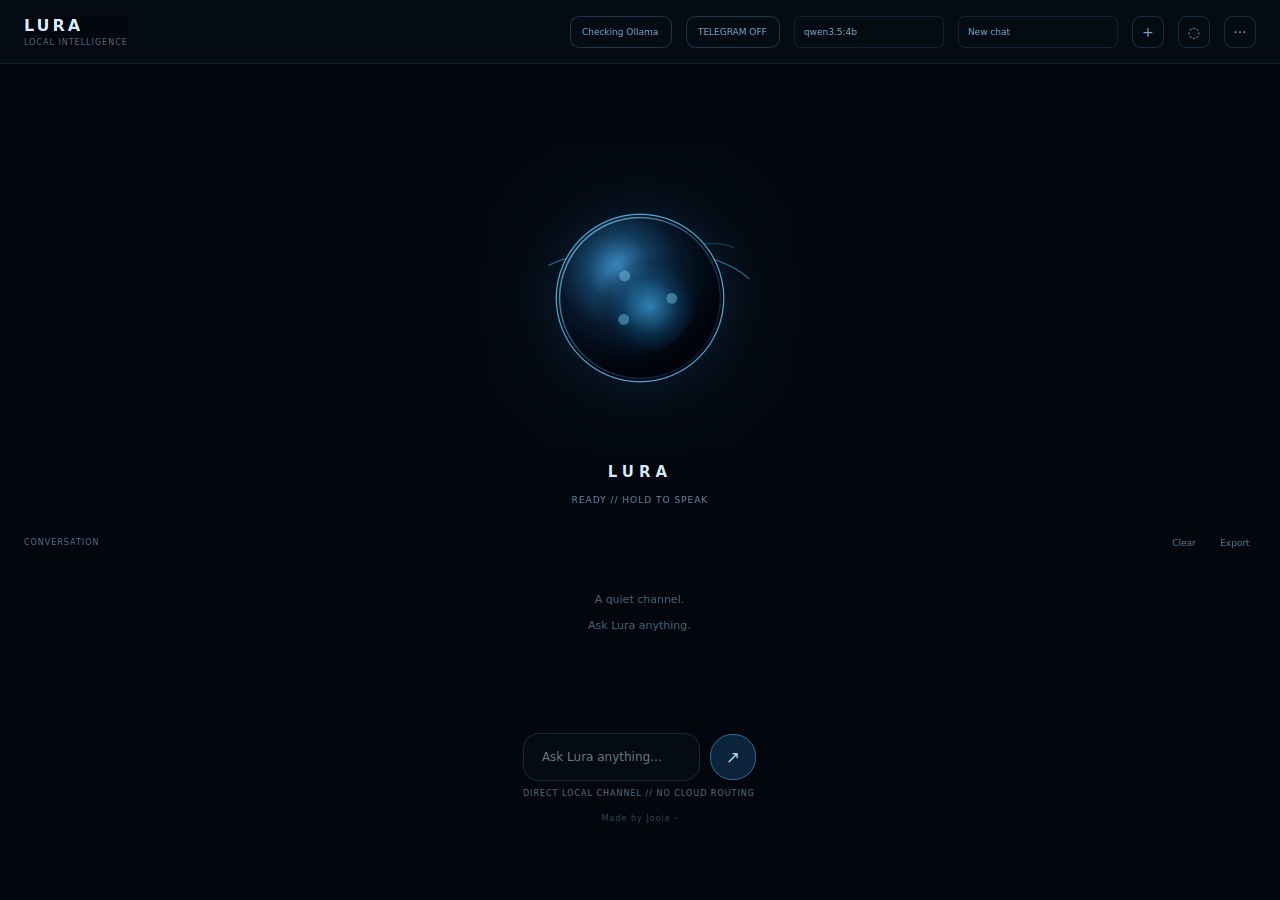
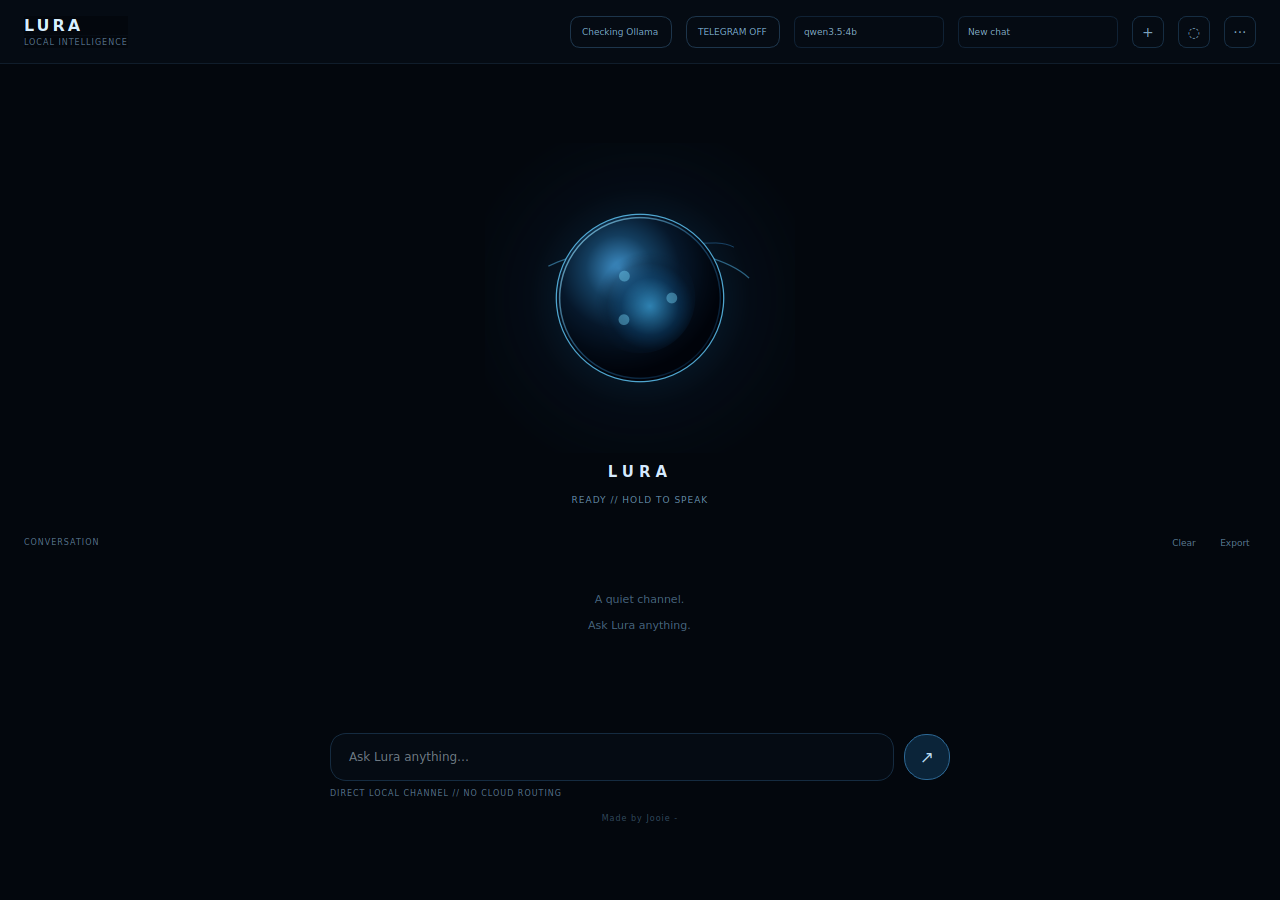
Update agent metadata and main window UI with preview screenshot
Replit-Commit-Author: Agent

Changed region(s): [[0.25, 0.8089, 0.5938, 0.9022], [0.6875, 0.8089, 0.75, 0.8711]]

diff --git a/local-ai-assistant/local_ai_assistant/ui/main_window.py b/local-ai-assistant/local_ai_assistant/ui/main_window.py
@@ -19,6 +19,7 @@ from PySide6.QtWidgets import (
     QMenu,
     QMessageBox,
     QPushButton,
+    QSizePolicy,
     QSystemTrayIcon,
     QVBoxLayout,
     QWidget,
@@ -320,7 +321,12 @@ class MainWindow(QMainWindow):
         composer_layout = QVBoxLayout(self.composer)
         composer_layout.setContentsMargins(0, 10, 0, 0)
         composer_layout.setSpacing(7)
+        self.composer.setMinimumWidth(620)
         self.composer.setMaximumWidth(820)
+        self.composer.setSizePolicy(
+            QSizePolicy.Policy.Expanding,
+            QSizePolicy.Policy.Fixed,
+        )
 
         input_row = QHBoxLayout()
         input_row.setSpacing(10)
